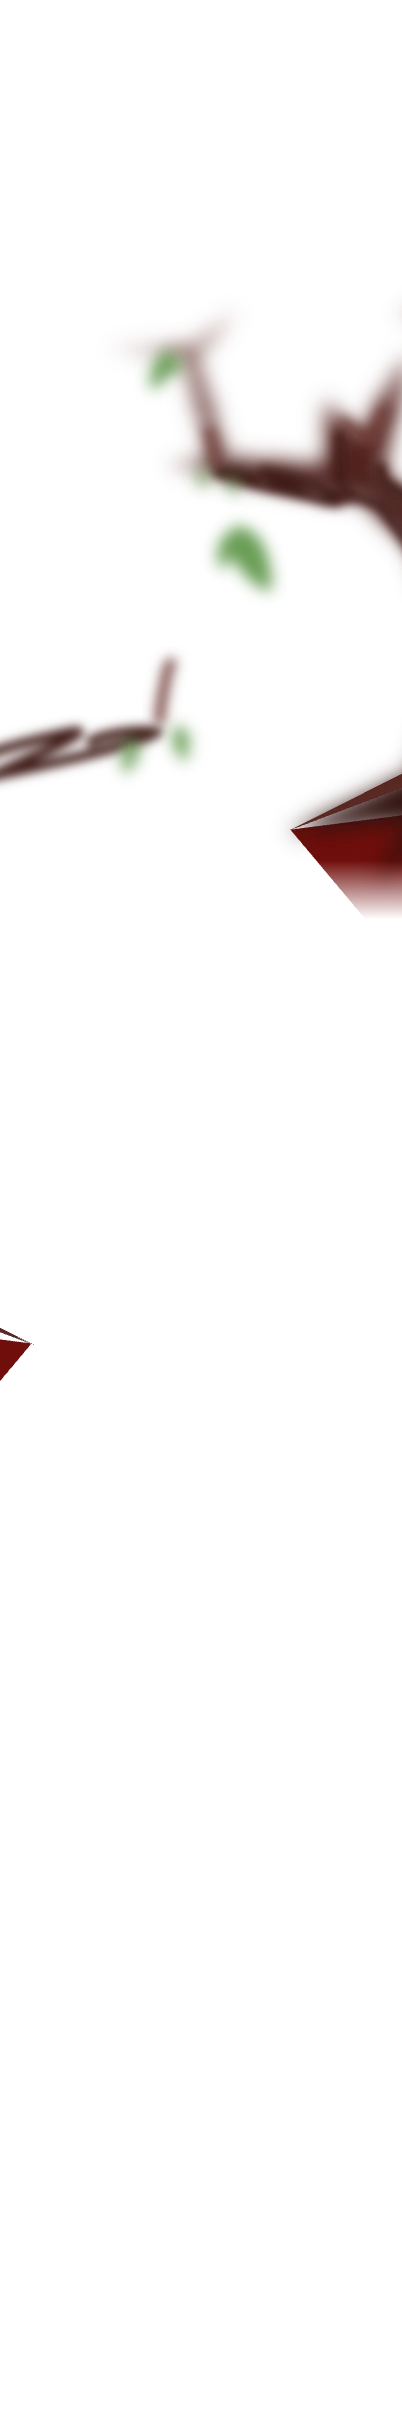
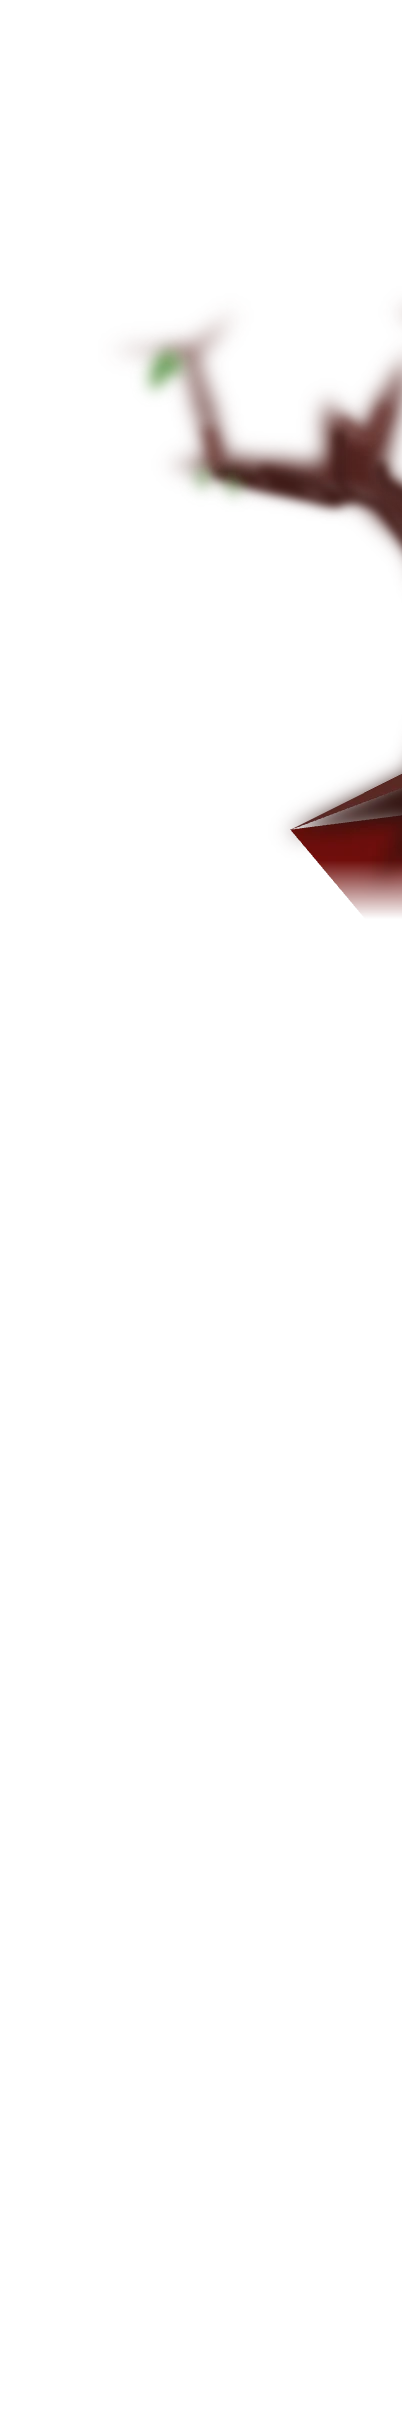
Fix Travel left parallax tree right-edge cutoff

Changed region(s): [[0.0, 0.2479, 0.4776, 0.3409], [0.5075, 0.2169, 0.6866, 0.2479], [0.0, 0.5269, 0.0597, 0.5888]]

diff --git a/tests/travel/animation.spec.ts b/tests/travel/animation.spec.ts
@@ -149,3 +149,54 @@ test("scene stays visible without JavaScript", async ({
     ).toBeVisible();
     await context.close();
 });
+
+test("left parallax branch extends unclipped past its right tip", async ({
+    page
+}, testInfo) => {
+    await page.goto("/travel");
+    const branchLayer = page.locator('[data-scene-layer="branch"]');
+    const branchImg = branchLayer.locator("img");
+    await expect(branchImg).toBeVisible();
+    const metrics = await branchLayer.evaluate(async layer => {
+        const img = layer.querySelector("img") as HTMLImageElement;
+        await img.decode();
+        const canvas = document.createElement("canvas");
+        canvas.width = img.naturalWidth;
+        canvas.height = img.naturalHeight;
+        const ctx = canvas.getContext("2d")!;
+        ctx.drawImage(img, 0, 0);
+        const { data, width, height } = ctx.getImageData(
+            0,
+            0,
+            canvas.width,
+            canvas.height
+        );
+        let maxX = -1;
+        let maxDrop = 0;
+        const colMaxAlpha = new Uint8Array(width);
+        for (let y = 0; y < height; y++) {
+            for (let x = 0; x < width; x++) {
+                const a = data[(y * width + x) * 4 + 3];
+                if (a > colMaxAlpha[x]) colMaxAlpha[x] = a;
+                if (a > 10 && x > maxX) maxX = x;
+            }
+        }
+        for (let x = 1; x < width; x++) {
+            const drop = colMaxAlpha[x - 1] - colMaxAlpha[x];
+            if (drop > maxDrop) maxDrop = drop;
+        }
+        return {
+            clipPath: getComputedStyle(layer).clipPath,
+            width,
+            maxX,
+            maxDrop
+        };
+    });
+    expect(metrics.clipPath).toBe("none");
+    if (testInfo.project.name === "mobile") {
+        expect(metrics.maxX / metrics.width).toBeGreaterThan(0.8);
+    } else {
+        expect(metrics.maxX / metrics.width).toBeGreaterThan(0.45);
+    }
+    expect(metrics.maxDrop).toBeLessThan(30);
+});

diff --git a/app/travel/scene/TravelScene.tsx b/app/travel/scene/TravelScene.tsx
@@ -12,16 +12,16 @@ import styles from "./TravelScene.module.scss";
 import pageStyles from "../styles.module.scss";
 import Navbar from "@/components/Navbar/Navbar";
 
-function ForegroundArt() {
+function SceneLayerArt({ name }: { name: "foreground" | "branch" }) {
     return (
         <picture className={styles.foreground}>
             <source
                 media="(max-width: 700px)"
-                srcSet="/travel/frontier/motion/mobile/foreground.webp"
+                srcSet={`/travel/frontier/motion/mobile/${name}.webp`}
             />
             {/* eslint-disable-next-line @next/next/no-img-element */}
             <img
-                src="/travel/frontier/motion/desktop/foreground.webp"
+                src={`/travel/frontier/motion/desktop/${name}.webp`}
                 alt=""
                 width={1440}
                 height={3132}
@@ -138,15 +138,15 @@ export default function TravelScene({
                         className={styles.fixedTree}
                         data-scene-layer="foreground"
                     >
-                        <ForegroundArt />
+                        <SceneLayerArt name="foreground" />
                     </div>
                 </motion.div>
                 <motion.div
-                    className={`${styles.movingLayer} ${styles.branch}`}
+                    className={styles.movingLayer}
                     style={{ y: branchY }}
                     data-scene-layer="branch"
                 >
-                    <ForegroundArt />
+                    <SceneLayerArt name="branch" />
                 </motion.div>
             </div>
             {/* The navbar and title belong to the scene, so they drift with it. */}

diff --git a/app/travel/scene/TravelScene.module.scss b/app/travel/scene/TravelScene.module.scss
@@ -28,13 +28,6 @@
     position: absolute;
     inset: 0;
 }
-// The clips meet in transparent parts of the shared foreground artwork.
-.fixedTree {
-    clip-path: inset(0 0 0 50%);
-}
-.branch {
-    clip-path: inset(0 50% 0 0);
-}
 .drift {
     position: relative;
 }
@@ -49,20 +42,6 @@
         height: 601.99005vw;
         --train-left: -37.0646766%;
         --train-width: 108.4577114%;
-    }
-    // The right tree extends farther left above the near branch on phones.
-    .fixedTree {
-        clip-path: polygon(
-            0 0,
-            100% 0,
-            100% 100%,
-            60% 100%,
-            60% 25.6%,
-            0 25.6%
-        );
-    }
-    .branch {
-        clip-path: inset(25.6% 40% 0 0);
     }
     .train {
         top: 21.4876033%;
